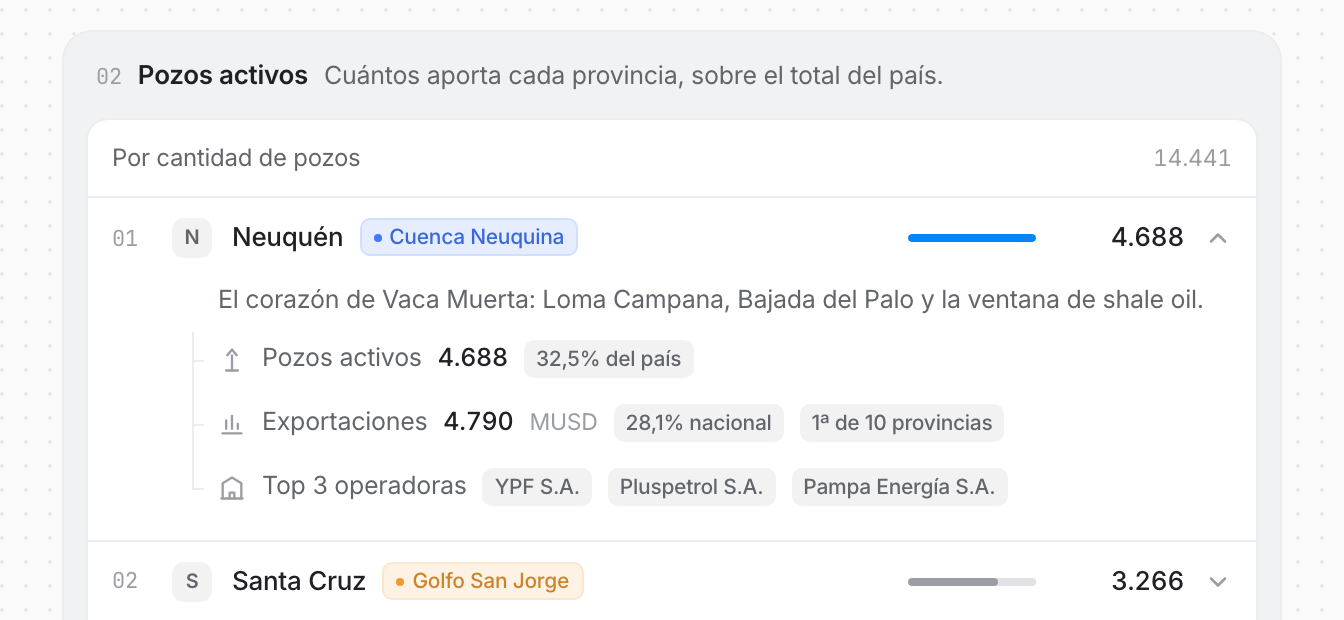
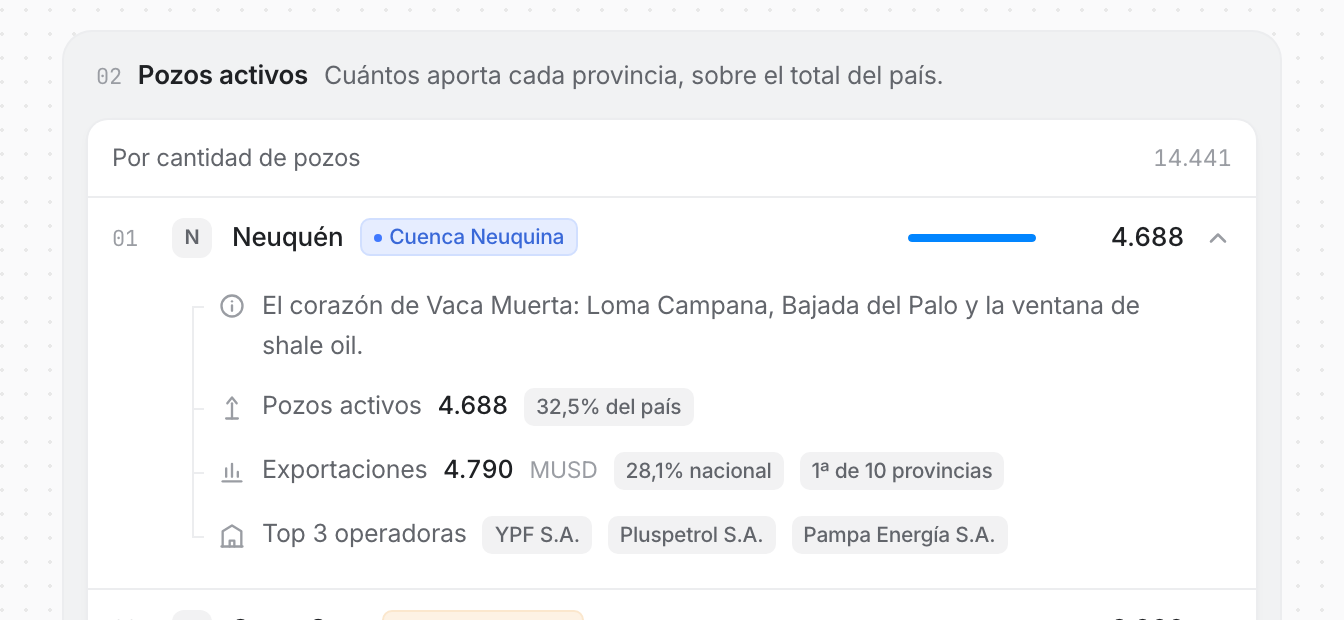
v2(provincias): la descripción entra al riel, con ícono y codo
Estaba suelta y por eso se leía desconectada: arrancaba en 65 sin coincidir con
nada —el nombre de la provincia está en 72, los íconos de los pasos en 65—, así
que quedaba a siete píxeles de una cosa y encimada con la otra sin pertenecer a
ninguna.

Ahora usa la caja del paso. Su ícono cae en la columna de íconos y su texto en
la de rótulos: dos columnas limpias en vez de tres casi-alineaciones. Y cuelga
del riel con su codo, como el resto.

El codo apunta al PRIMER renglón y no al centro: el párrafo envuelve —dos
líneas en desktop, tres a 375— y su mitad cae entre renglones, con lo cual el
codo habría apuntado a un hueco. Va a 12px, que es donde está el centro del
ícono, y el riel arranca ahí mismo. Verificado: desvío 0 en los cuatro anchos.

La tipografía es la MEDIDA de la prosa adentro de una card de la referencia:
12,5px con interlínea holgada en ink-2. Es lo que sigue separándola de un paso,
ahora que comparten caja, ícono y codo.

diff --git a/apps/ui-prototype/src/app/v2/provincias/FilaProvincia.tsx b/apps/ui-prototype/src/app/v2/provincias/FilaProvincia.tsx
@@ -123,19 +123,54 @@ export function FilaProvincia({
               exacto de la pastilla de la fila (12 de padding + 20 del rango +
               10 de gap + 10 de media pastilla). */}
           <div style={{ padding: '2px 12px 12px 59px' }}>
-            {/* La descripción va FUERA del riel, y con los 6px de padding del
-                paso para que su texto arranque en la misma x que los íconos.
-
-                Estaba adentro y era el problema de jerarquía: prosa de ancho
-                completo colgando del mismo riel que tres lecturas de dato, o
-                sea dos cosas distintas presentadas como pares. La descripción
-                no es un ítem del desglose, es lo que lo presenta. */}
-            <p className="s-desc m-0 pb-1.5 pl-1.5">{p.blurb}</p>
-
-            {/* Los pasos van como hijos DIRECTOS del riel, no envueltos en un
-                contenedor: si no, el codo se engancharía al contenedor y
-                habría un solo codo para los tres. */}
+            {/* Todo cuelga como hijo DIRECTO del riel, sin envolver nada en un
+                contenedor: si no, el codo se engancharía al contenedor y habría
+                un solo codo para los cuatro. */}
             <div className="s-rama flex flex-col gap-1">
+              {/* La descripción también cuelga del riel. Estuvo suelta un rato
+                  —es prosa que presenta el desglose, no un ítem del desglose— y
+                  ahí arrancaba en 65 sin alinearse con nada: el nombre de la
+                  provincia está en 72 y los íconos de los pasos en 65.
+
+                  Usar la caja del paso arregla las dos cosas: su ícono cae en
+                  la columna de íconos (65) y su texto en la de rótulos (87), y
+                  con el codo queda enganchada a lo mismo que el resto. Lo que
+                  la sigue separando de un paso es la tipografía: prosa con
+                  interlínea holgada, sin cifra y sin badges.
+
+                  El ícono va arriba y no centrado —la prosa envuelve— con 3px
+                  de corrección para quedar a media altura del primer renglón
+                  (20,3 de interlínea contra 14 de ícono). El codo lo sigue
+                  hasta ahí: ver .s-paso--intro en sistema.css. */}
+              <div className="s-paso s-paso--intro">
+                <svg
+                  aria-hidden
+                  width="14"
+                  height="14"
+                  viewBox="0 0 24 24"
+                  fill="none"
+                  stroke="currentColor"
+                  strokeWidth="2"
+                  strokeLinecap="round"
+                  strokeLinejoin="round"
+                  className="mt-[3px] shrink-0"
+                  style={{ color: 'var(--ink-3)' }}
+                >
+                  <circle cx="12" cy="12" r="9" />
+                  <path d="M12 11.5v4.5" />
+                  <path d="M12 8h.01" />
+                </svg>
+                {/* 12,5 con interlínea holgada e ink-2: es la receta MEDIDA de
+                    la prosa adentro de una card de la referencia
+                    (p.px-3.pt-2.pb-1.text-[12.5px].leading-relaxed.text-ink-2). */}
+                <p
+                  className="m-0 min-w-0 flex-1 text-[12.5px] leading-relaxed"
+                  style={{ color: 'var(--ink-2)', textWrap: 'pretty' }}
+                >
+                  {p.blurb}
+                </p>
+              </div>
+
               {/* Sin puesto: el ranking de pozos es el orden de esta misma
                   lista, así que el puesto ya está impreso a la izquierda de la
                   fila. Repetirlo abajo era decir dos veces lo mismo. */}

diff --git a/apps/ui-prototype/src/app/v2/sistema.css b/apps/ui-prototype/src/app/v2/sistema.css
@@ -513,6 +513,14 @@
   border-radius: 6px;
   background: transparent;
 }
+/* Variante para la introducción: el contenido es prosa que envuelve, así que
+   el ícono se alinea arriba —centrado en el primer renglón, con los 3px de
+   corrección que van en el svg— y no a media altura del párrafo entero. Y no
+   envuelve: el ícono nunca se separa del texto que ancla. */
+.s-paso--intro {
+  align-items: flex-start;
+  flex-wrap: nowrap;
+}
 
 /* ── Riel de desglose ───────────────────────────────────────────────────
    El riel de las trazas de "Thinking": medido en el sitio, es un span
@@ -561,3 +569,10 @@
   height: 1px;
   background: var(--line);
 }
+/* La introducción cuelga por su PRIMER renglón y no por su centro: el párrafo
+   envuelve —dos líneas en desktop, tres a 375— y su mitad cae entre renglones,
+   con lo cual el codo apuntaría a un hueco. 12px es donde está el centro del
+   ícono: 2 de padding + 3 de corrección de línea de base + 7 de medio ícono.
+   El riel arranca ahí mismo, que es de donde cuelga la primera línea. */
+.s-rama > .s-paso--intro::after { top: 12px; }
+.s-rama > .s-paso--intro:first-child::before { top: 12px; }
